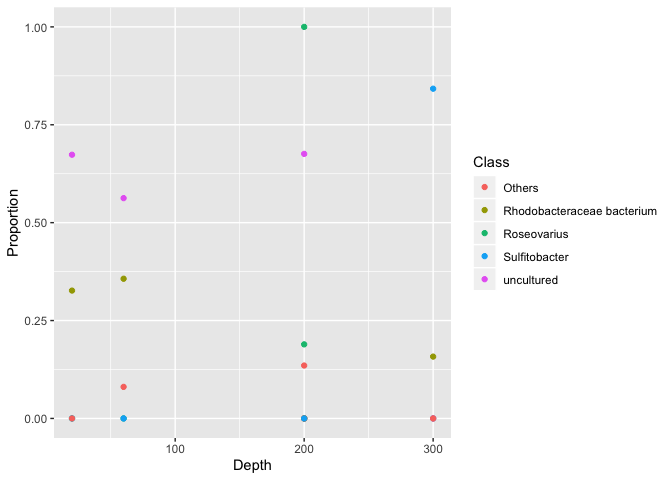
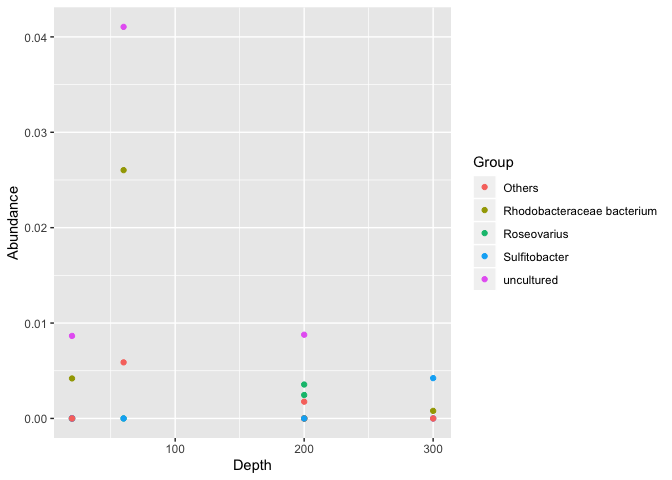
README update

diff --git a/README.md b/README.md
@@ -135,7 +135,7 @@ Count\_Data file.
 
 ``` r
 file_ASV <- "Data/Example_Data/Pacific-Project/V4V5_Primerset/Pool_2/"
-file_Meta <- "Data/Example_Data/Pacific-Project/Meta_Data/Meta_Data_Pacific_Sample_ID.tsv"
+file_Meta <- "Data/Example_Data/Pacific-Project/Meta_Data/Meta_Data_Pacific_Sample.tsv"
 
 prepare_raw(file_ASV, file_Meta, confidence_lvl = 0.8, kingdom = "Prok")
 ```
@@ -236,23 +236,23 @@ datalist_Prok %>%
     ## Warning: Column `Sample_ID` joining factor and character vector, coercing into
     ## character vector
 
-| Class                   | Sample\_ID | Proportion | Cruise | Station | Latitude | Longitude | Bot\_Depth | Depth |
-| :---------------------- | :--------- | ---------: | :----- | ------: | -------: | --------: | ---------: | ----: |
-| Actinomarinaceae        | 1-200-3    |       0.00 | SO248  |       1 |     \-30 |       177 |       4268 |   200 |
-| AEGEAN-169 marine group | 1-200-3    |       0.00 | SO248  |       1 |     \-30 |       177 |       4268 |   200 |
-| Alcanivoracaceae        | 1-200-3    |       0.12 | SO248  |       1 |     \-30 |       177 |       4268 |   200 |
-| Ambiguous\_taxa         | 1-200-3    |       0.03 | SO248  |       1 |     \-30 |       177 |       4268 |   200 |
-| Burkholderiaceae        | 1-200-3    |       0.06 | SO248  |       1 |     \-30 |       177 |       4268 |   200 |
-| Chitinophagaceae        | 1-200-3    |       0.05 | SO248  |       1 |     \-30 |       177 |       4268 |   200 |
-| Clade I                 | 1-200-3    |       0.02 | SO248  |       1 |     \-30 |       177 |       4268 |   200 |
-| Cyanobiaceae            | 1-200-3    |       0.03 | SO248  |       1 |     \-30 |       177 |       4268 |   200 |
-| Marinobacteraceae       | 1-200-3    |       0.07 | SO248  |       1 |     \-30 |       177 |       4268 |   200 |
-| Sphingomonadaceae       | 1-200-3    |       0.06 | SO248  |       1 |     \-30 |       177 |       4268 |   200 |
-| uncultured bacterium    | 1-200-3    |       0.03 | SO248  |       1 |     \-30 |       177 |       4268 |   200 |
-| Others                  | 1-200-3    |       0.52 | SO248  |       1 |     \-30 |       177 |       4268 |   200 |
-| Actinomarinaceae        | 1-200-8    |       0.00 | SO248  |       1 |     \-30 |       177 |       4268 |   200 |
-| AEGEAN-169 marine group | 1-200-8    |       0.00 | SO248  |       1 |     \-30 |       177 |       4268 |   200 |
-| Alcanivoracaceae        | 1-200-8    |       0.04 | SO248  |       1 |     \-30 |       177 |       4268 |   200 |
+| Group                   | Sample\_ID | Abundance | Cruise | Station | Latitude | Longitude | Bot\_Depth | Depth |
+| :---------------------- | :--------- | --------: | :----- | ------: | -------: | --------: | ---------: | ----: |
+| Actinomarinaceae        | 1-200-3    |         0 | SO248  |       1 |     \-30 |       177 |       4268 |   200 |
+| AEGEAN-169 marine group | 1-200-3    |         0 | SO248  |       1 |     \-30 |       177 |       4268 |   200 |
+| Alcanivoracaceae        | 1-200-3    |       419 | SO248  |       1 |     \-30 |       177 |       4268 |   200 |
+| Ambiguous\_taxa         | 1-200-3    |        92 | SO248  |       1 |     \-30 |       177 |       4268 |   200 |
+| Burkholderiaceae        | 1-200-3    |       195 | SO248  |       1 |     \-30 |       177 |       4268 |   200 |
+| Chitinophagaceae        | 1-200-3    |       174 | SO248  |       1 |     \-30 |       177 |       4268 |   200 |
+| Clade I                 | 1-200-3    |        66 | SO248  |       1 |     \-30 |       177 |       4268 |   200 |
+| Cyanobiaceae            | 1-200-3    |       114 | SO248  |       1 |     \-30 |       177 |       4268 |   200 |
+| Marinobacteraceae       | 1-200-3    |       239 | SO248  |       1 |     \-30 |       177 |       4268 |   200 |
+| Sphingomonadaceae       | 1-200-3    |       191 | SO248  |       1 |     \-30 |       177 |       4268 |   200 |
+| uncultured bacterium    | 1-200-3    |       118 | SO248  |       1 |     \-30 |       177 |       4268 |   200 |
+| Others                  | 1-200-3    |      1767 | SO248  |       1 |     \-30 |       177 |       4268 |   200 |
+| Actinomarinaceae        | 1-200-8    |         0 | SO248  |       1 |     \-30 |       177 |       4268 |   200 |
+| AEGEAN-169 marine group | 1-200-8    |         9 | SO248  |       1 |     \-30 |       177 |       4268 |   200 |
+| Alcanivoracaceae        | 1-200-8    |       120 | SO248  |       1 |     \-30 |       177 |       4268 |   200 |
 
 The datatable format is easy to use with ggplot functions but also
 everyother function from the dplyr package. To improve compatibility,
@@ -265,9 +265,10 @@ that:
 
 ``` r
 datalist_Prok %>%
+  make_proportion_datalist(.) %>%
   filter_by_taxa(., taxLvl = 5, taxa = "Rhodobacteraceae") %>%
   create_datatable(., Genus, otherThreshold = 0.1) %>%
-  ggplot(., aes(x = Depth, y = Proportion, col = Class)) +
+  ggplot(., aes(x = Depth, y = Abundance, col = Group)) +
     geom_point()
 ```
 
